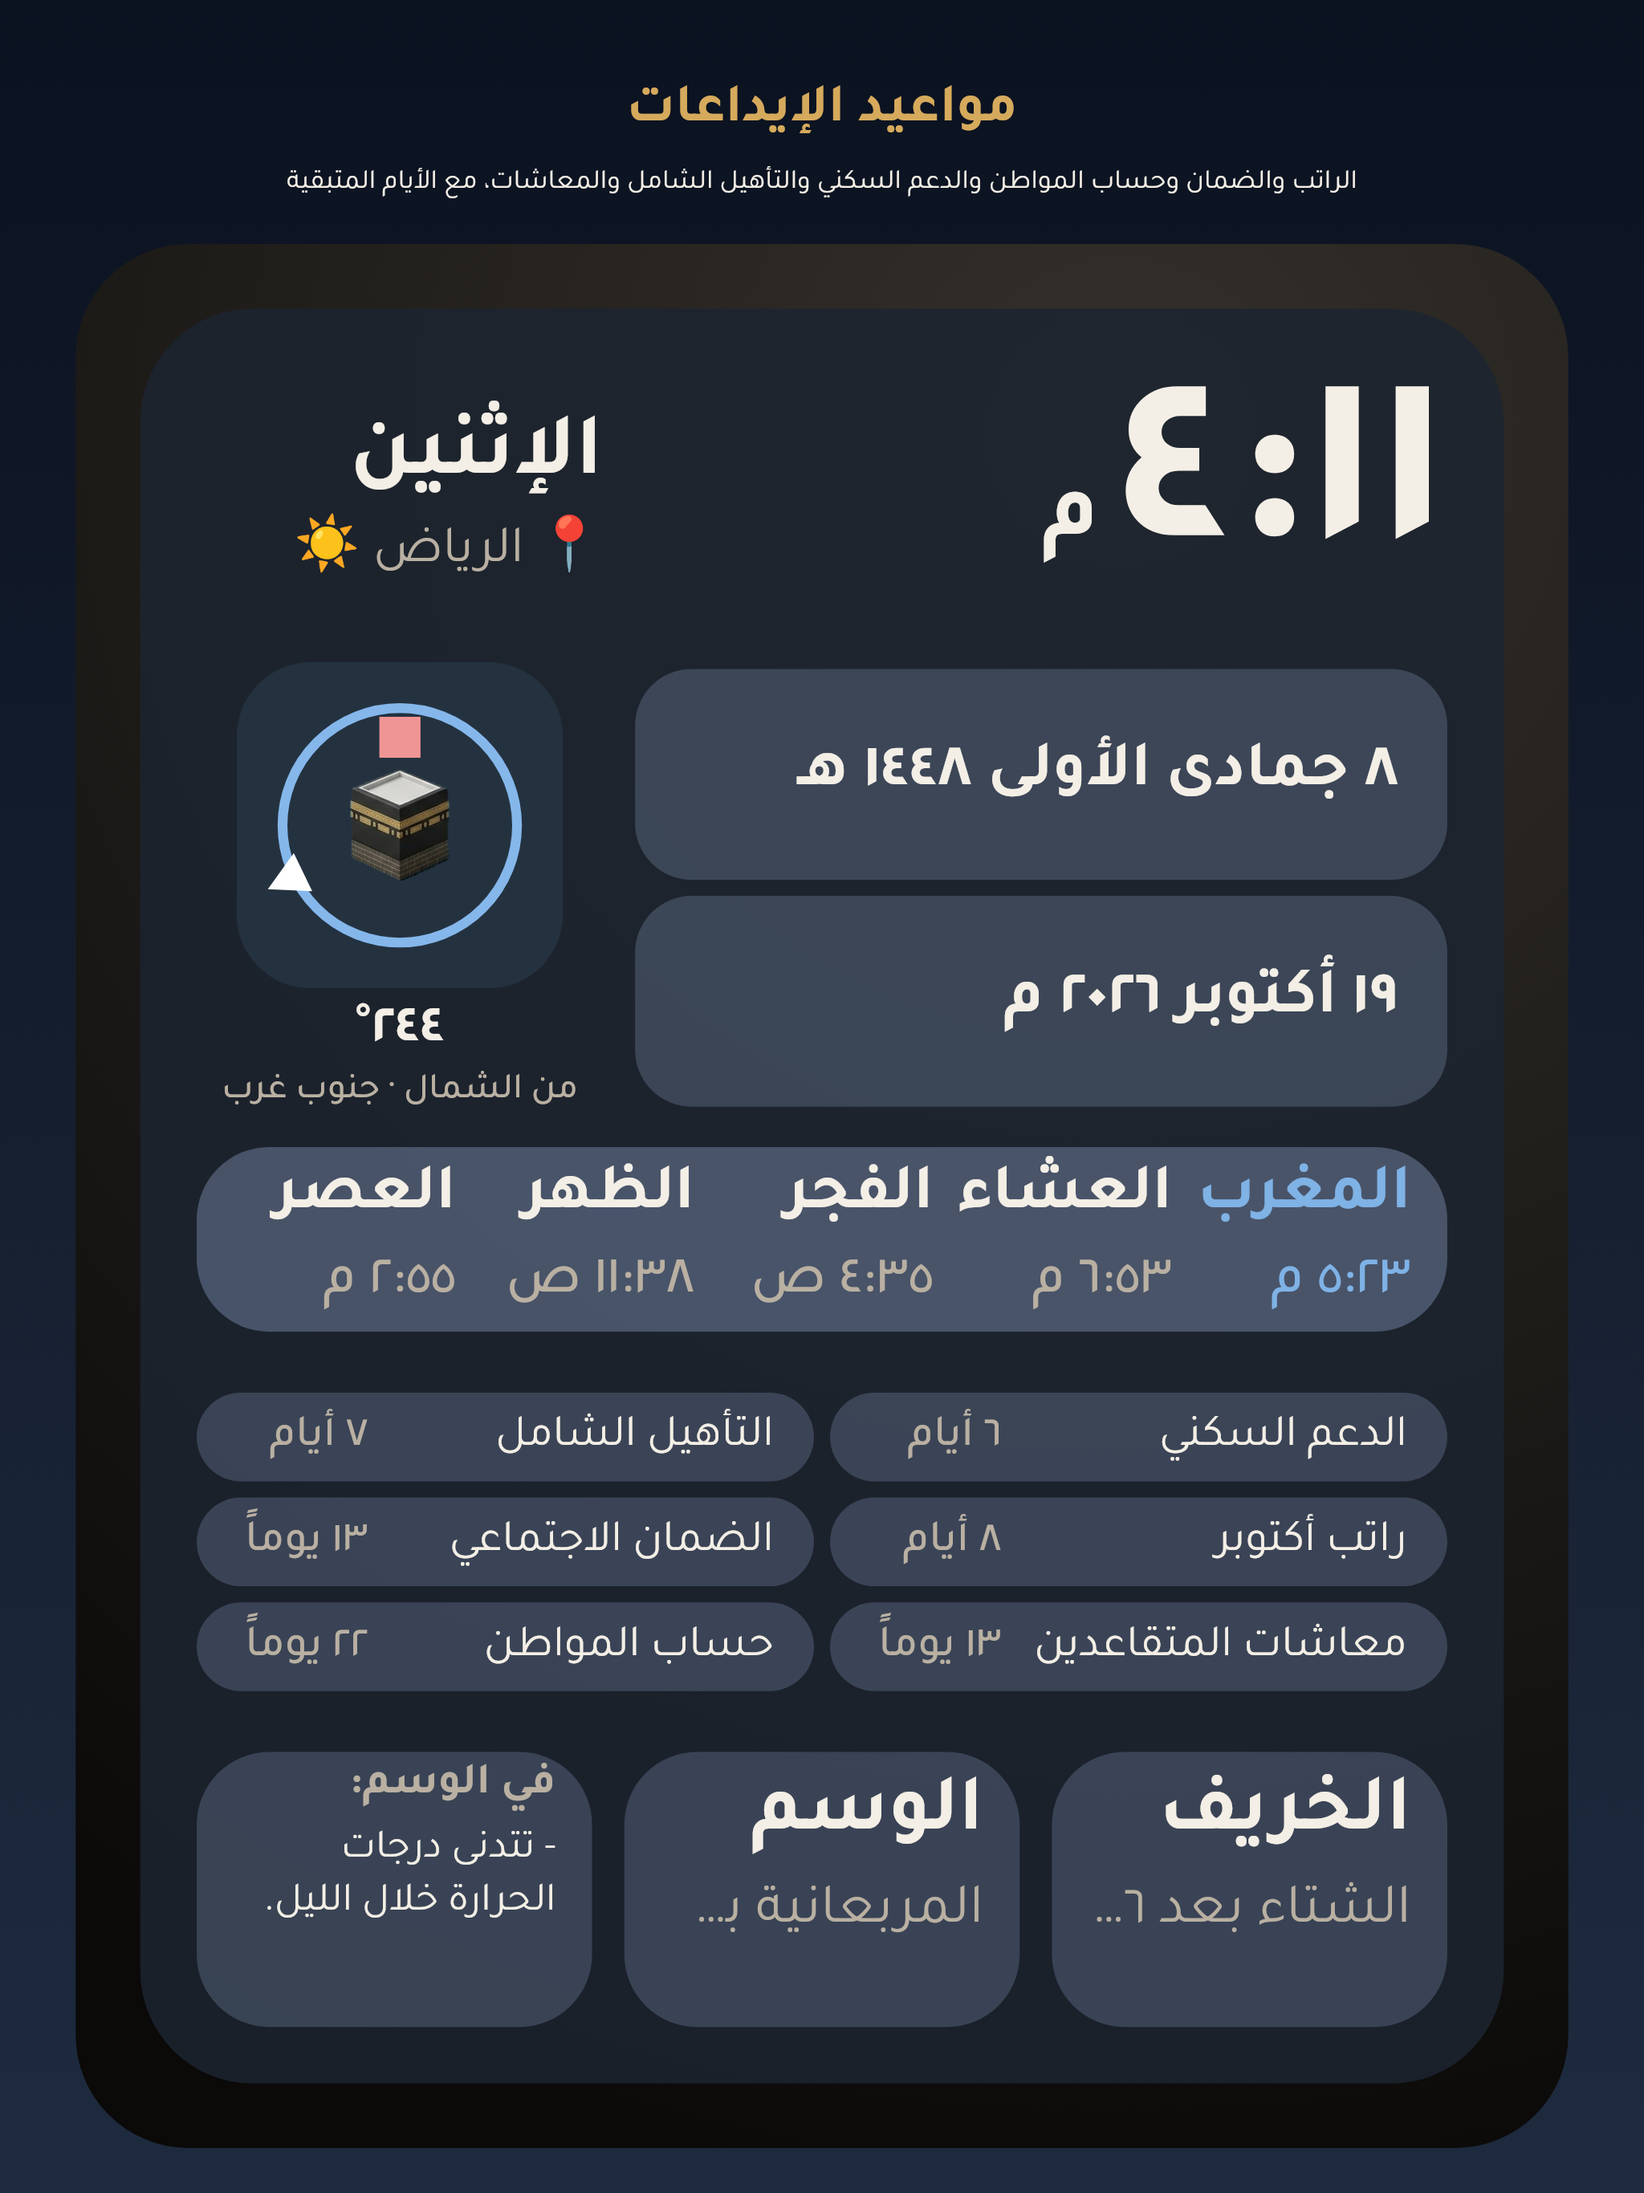
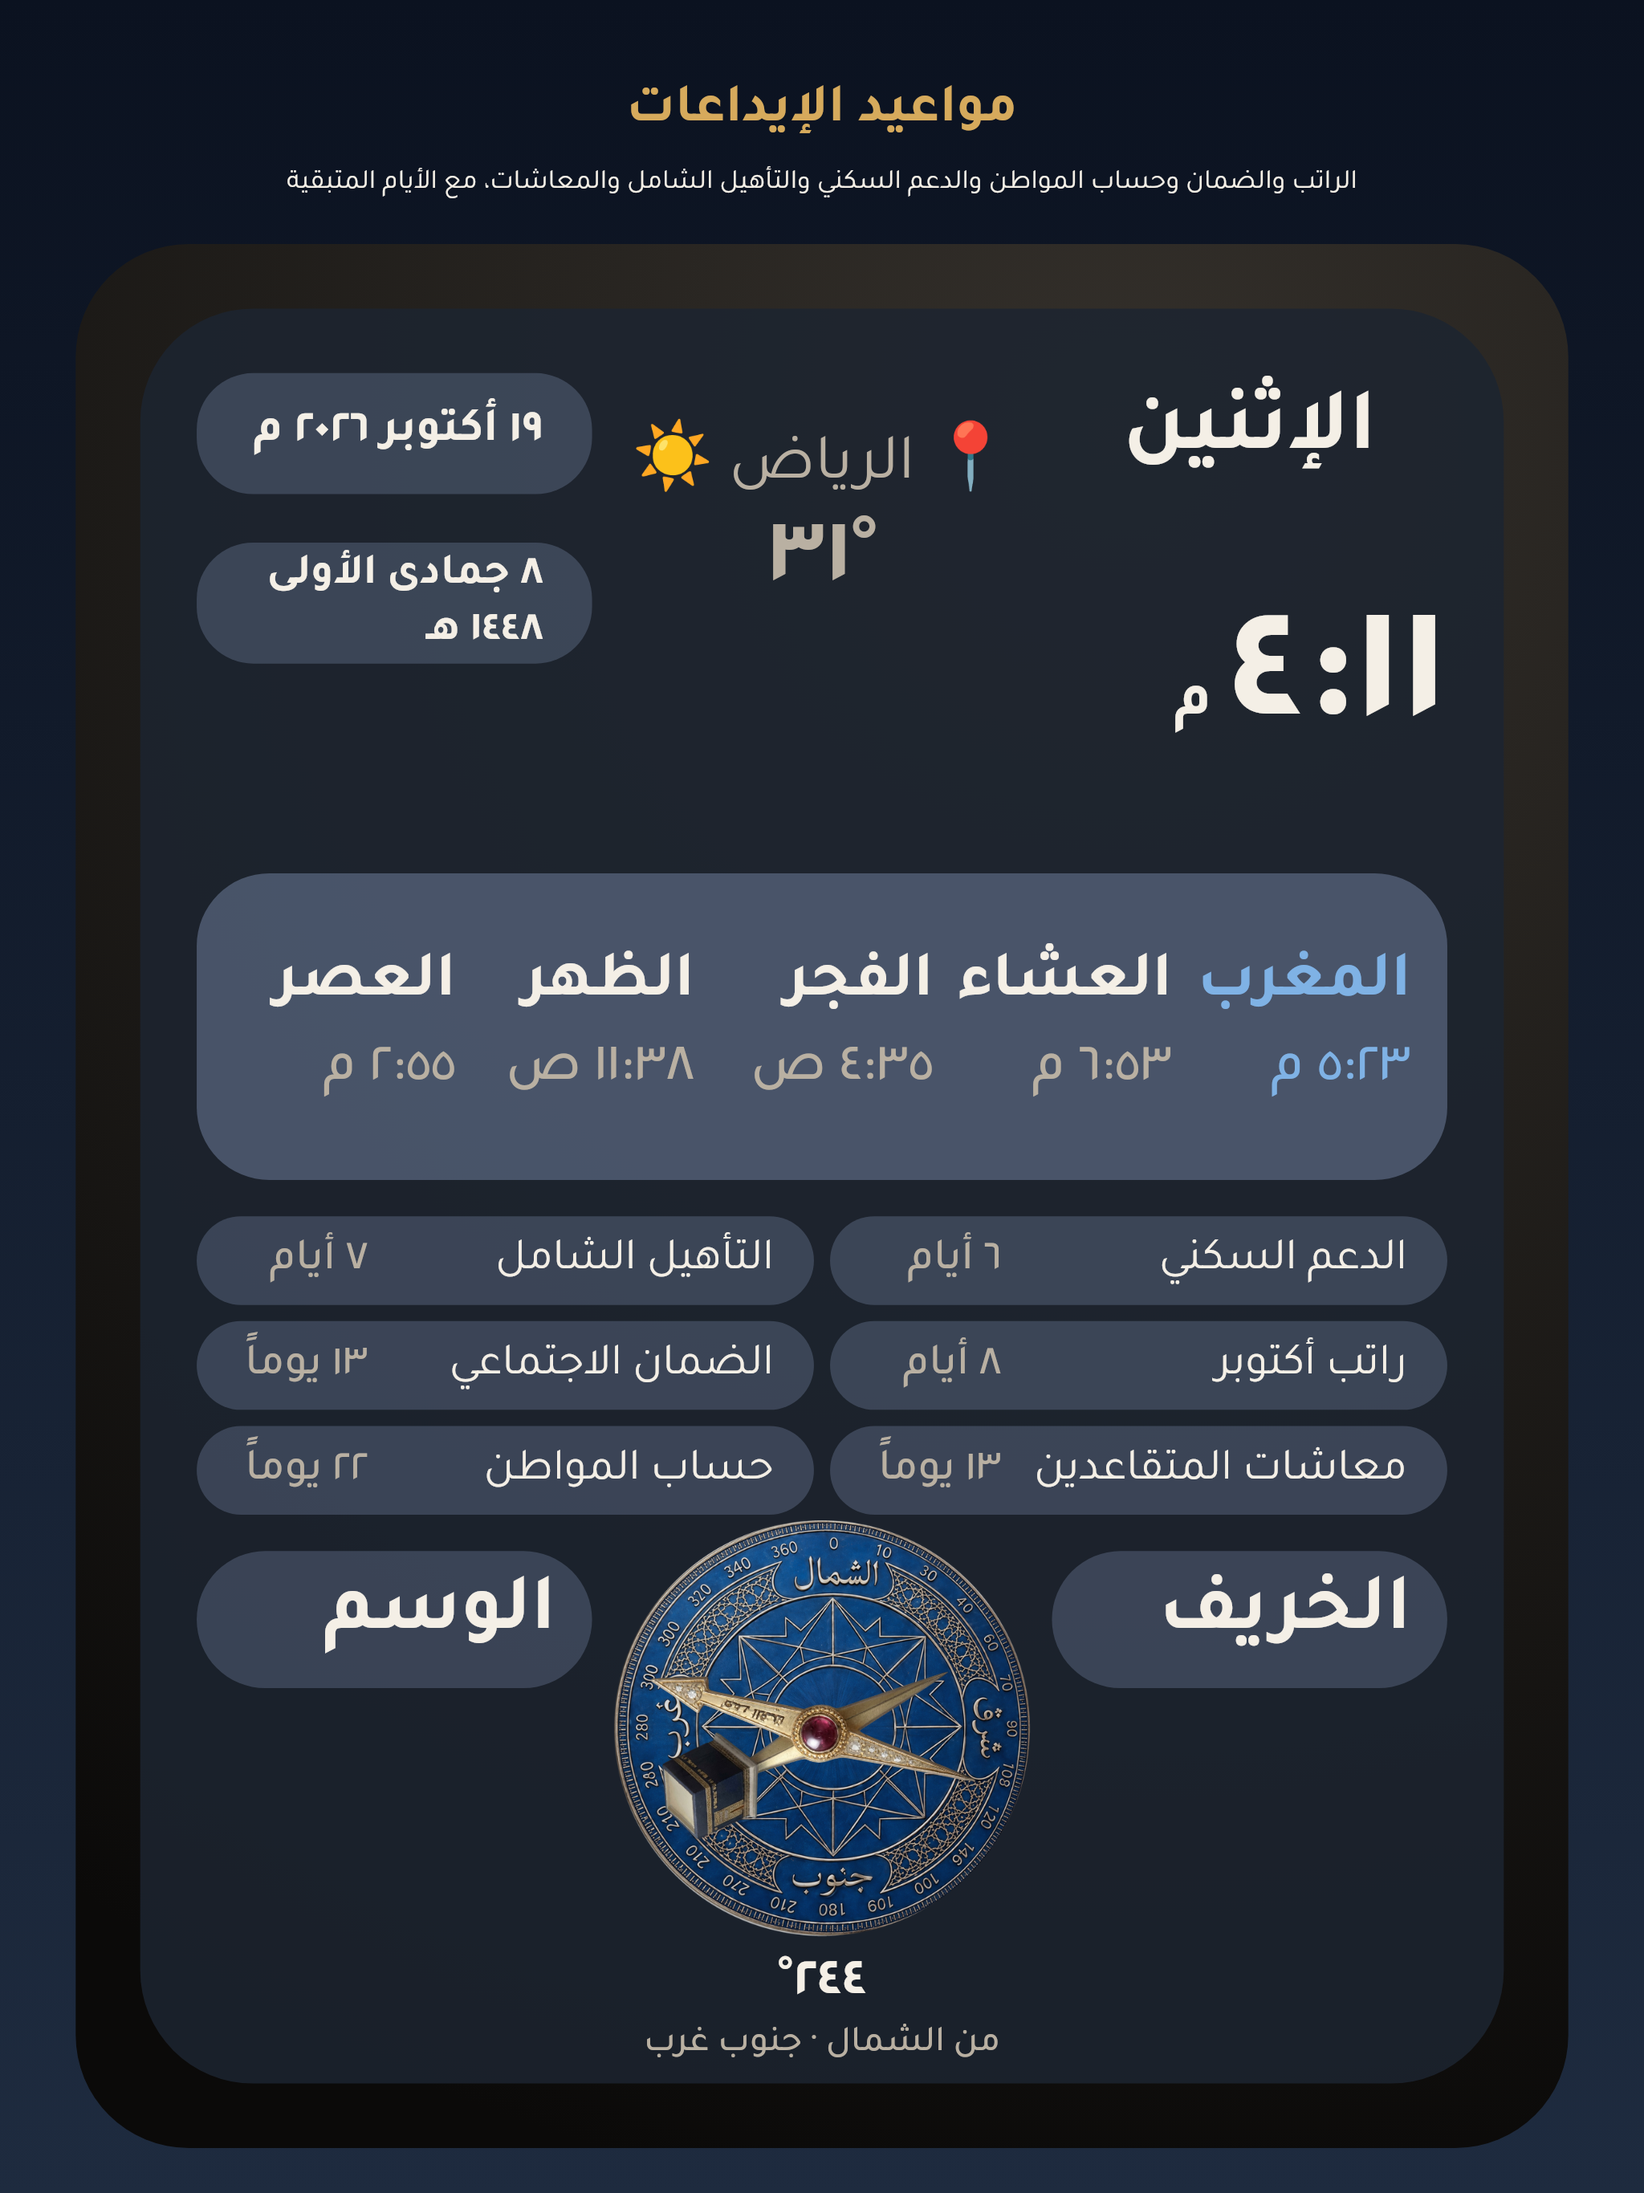
لمحة: صور المتجرين بالترتيب الافتراضي الجديد (#182)
* لمحة: الترتيب الافتراضي للودجت بلقطة المالك (DECISIONS ٣٦)

Claude-Session: https://claude.ai/code/session_01G1SyvbgUeXEeAFYnMJsLm5

* لمحة: تحديث صور المتجرين بالترتيب الافتراضي الجديد

Claude-Session: https://claude.ai/code/session_01G1SyvbgUeXEeAFYnMJsLm5

---------

diff --git a/apps/lamha/test/app/app_helpers.dart b/apps/lamha/test/app/app_helpers.dart
@@ -242,6 +242,9 @@ final testNow = DateTime.utc(2026, 10, 19, 9);
 final _data = loadEngineDataFromFiles();
 final _cities = parseCities(readAsset('assets/cities.json'));
 
+/// true = يبدأ التطبيق من الترتيب الافتراضي الجديد (لقطات المتجر)؛ الافتراضي false لاختبارات الآليات.
+bool pumpWithNewDefault = false;
+
 /// يشغّل التطبيق بطبقات وهمية ويعيد طبقة الودجت.
 Future<FakeBridge> pumpApp(
   WidgetTester tester, {
@@ -265,7 +268,7 @@ Future<FakeBridge> pumpApp(
   // اختبارات آليات الشاشة (سحب، حجم، ألوان…) تبدأ من الترتيب السابق؛ الافتراضي الجديد له اختباراته
   // (new_default_layout_test). الفرق في عنصر مخفي يمنع الترحيل التلقائي إلى الافتراضي الجديد.
   SharedPreferences.setMockInitialValues({
-    if (!prefs.containsKey(LamhaSettings.prefsKey))
+    if (!pumpWithNewDefault && !prefs.containsKey(LamhaSettings.prefsKey))
       LamhaSettings.prefsKey: LamhaSettings.defaults(_cities.first, _data.deposits.defaultIds)
           .copyWith(layout: [
             ...previousDefaultLayout.take(previousDefaultLayout.length - 1),

diff --git a/apps/lamha/test/store/store_screenshots_test.dart b/apps/lamha/test/store/store_screenshots_test.dart
@@ -134,6 +134,9 @@ Future<void> _shot(WidgetTester tester, Size logical, double dpr, Widget child, 
 }
 
 void main() {
+  // اللقطتان ٤ و٥ تُصوَّران بالترتيب الافتراضي الجديد (DECISIONS ٣٦).
+  setUp(() => pumpWithNewDefault = true);
+  tearDown(() => pumpWithNewDefault = false);
   // (المجلد، المقاس المنطقي، الكثافة): ١٠٨٠×١٩٢٠ لـ Play، و١٢٩٠×٢٧٩٦ لآيفون ٦٫٩ بوصة،
   // و٢٠٤٨×٢٧٣٢ لآيباد ١٣ بوصة (أبل تشترطها لأن التطبيق يعمل على آيباد).
   for (final (dir, logical, dpr) in [
